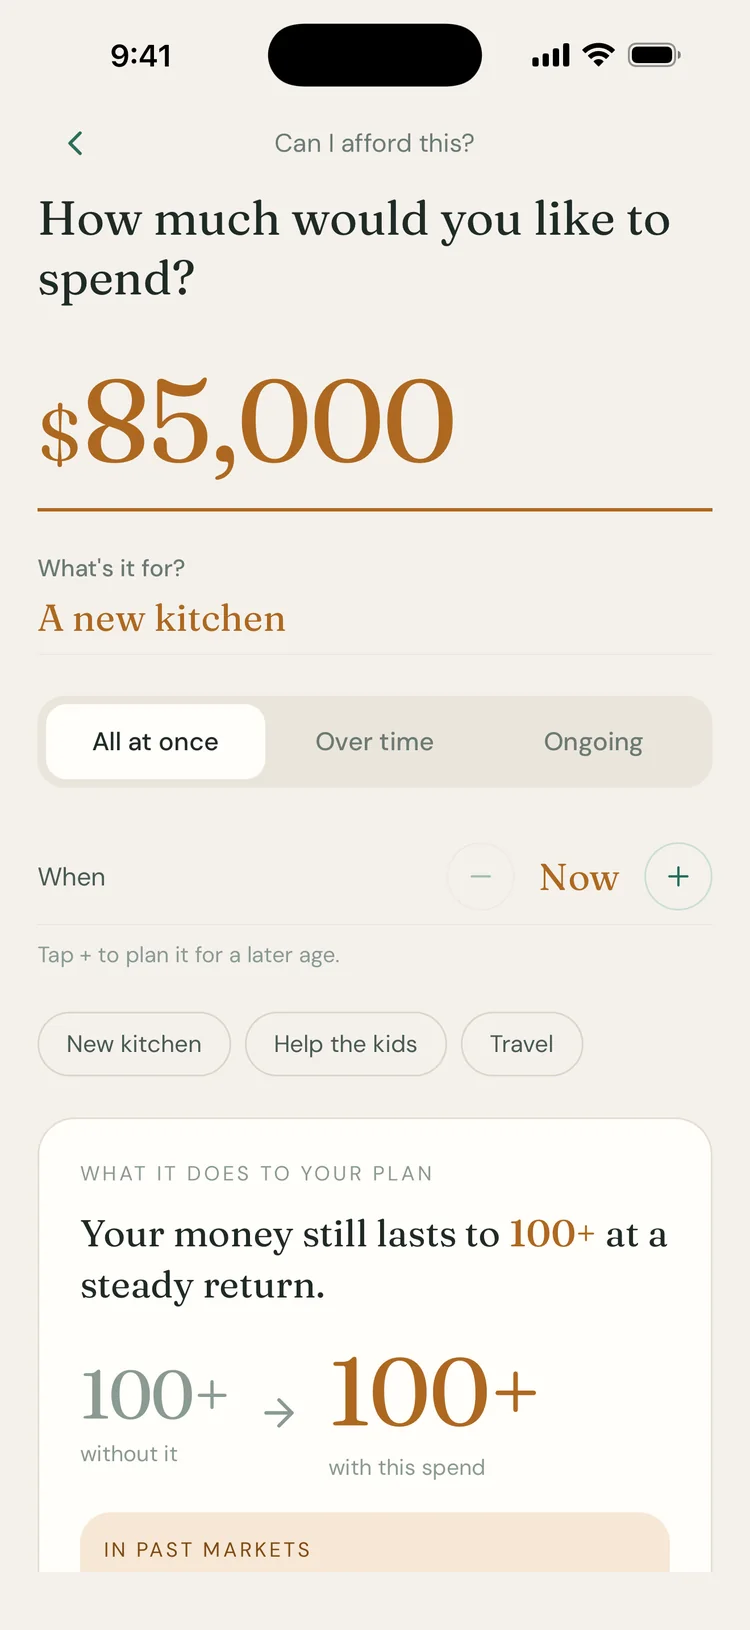
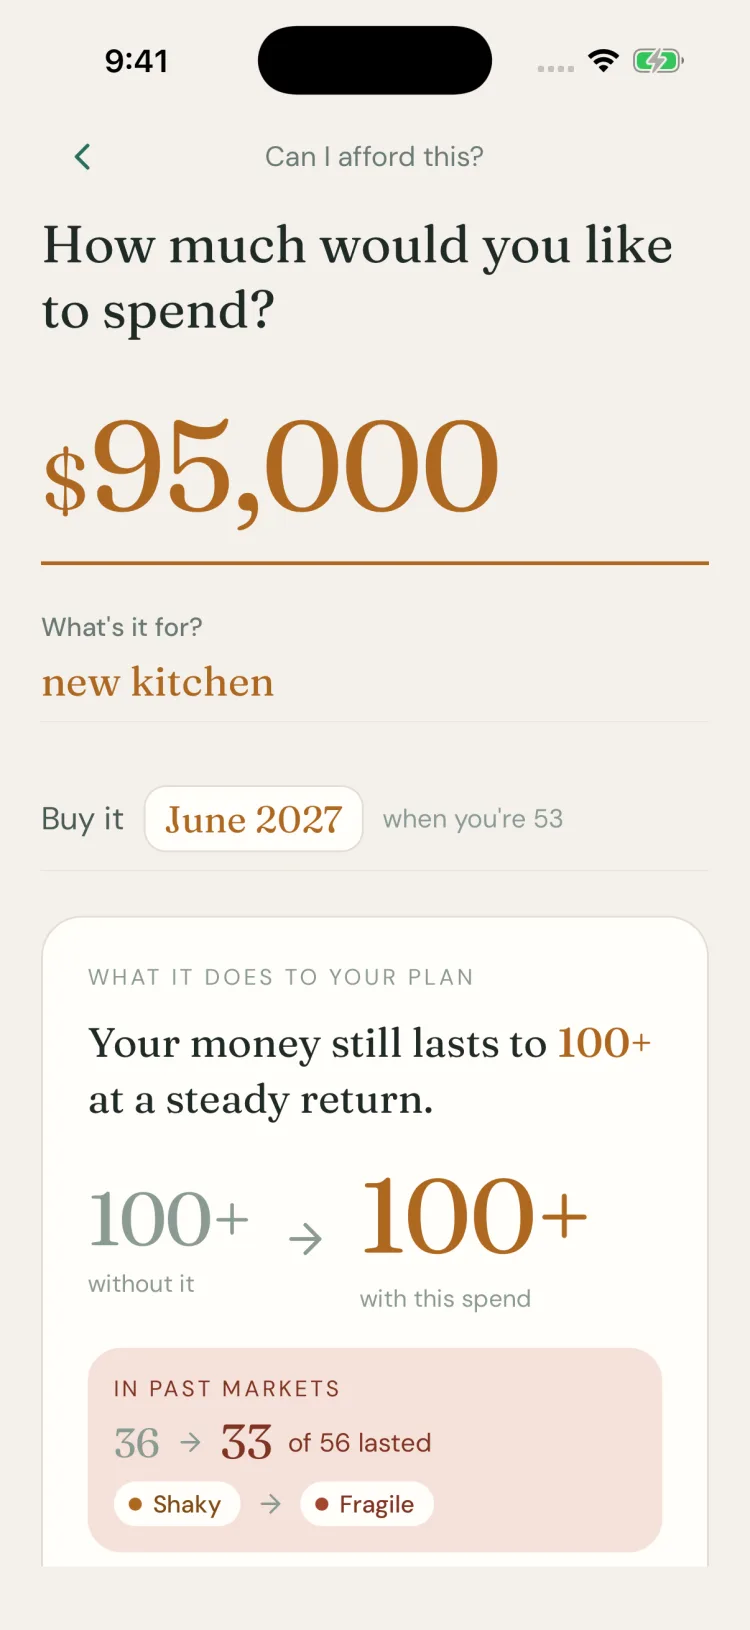
New screenshots: past markets, Can I afford this?, the paycheck
Replaces the three in-app screenshots on the home page with new
simulator captures: past markets year by year (the chart, the grid of
starting years and the hardest years), Can I afford this? with a
dated purchase, and the paycheck with its cash reserve. The image
descriptions now match what each one shows, and the image URLs carry
?v=2 so cached copies are replaced.

diff --git a/index.html b/index.html
@@ -131,8 +131,8 @@
       </div>
 
       <figure class="phone-wrap" style="margin-bottom:0;">
-        <div class="phone shot" role="img" aria-label="The past-markets replay for a sample couple: their money lasted until Tom turns 95 in 53 of 62 stretches of market history, 85 percent — sturdy.">
-          <img class="shot-img" src="images/screen-markets.webp" alt="" width="750" height="1630" loading="lazy" />
+        <div class="phone shot" role="img" aria-label="The past-markets replay for a sample plan: a chart of savings through every starting year since 1928, from 52 today to age 95, and a grid of starting years from 1928 to 1983 showing which lasted and which ran out. The hardest years, worst first: 1969, 1966, 1968, 1973 and 1965. Starting in 1929, the money ran out at 75.">
+          <img class="shot-img" src="images/screen-markets.webp?v=2" alt="" width="750" height="1630" loading="lazy" />
         </div>
         <figcaption class="phone-caption">The past-markets replay, for a sample plan</figcaption>
       </figure>
@@ -148,16 +148,16 @@
     <div class="screens">
       <!-- Can I afford this? -->
       <figure class="phone-wrap">
-        <div class="phone shot" role="img" aria-label="Can I afford this? for a sample couple: spending $85,000 on a new kitchen, their money still lasts to 100+ at a steady return.">
-          <img class="shot-img" src="images/screen-afford.webp" alt="" width="750" height="1630" loading="lazy" />
+        <div class="phone shot" role="img" aria-label="Can I afford this? for a sample plan: $95,000 for a new kitchen in June 2027. The money still lasts to 100+ at a steady return, but in past markets it lasted in 33 of 56 starting years instead of 36 — from shaky to fragile.">
+          <img class="shot-img" src="images/screen-afford.webp?v=2" alt="" width="750" height="1630" loading="lazy" />
         </div>
         <figcaption class="phone-caption">Can I afford this?</figcaption>
       </figure>
 
       <!-- Paycheck -->
       <figure class="phone-wrap">
-        <div class="phone shot" role="img" aria-label="Your retirement paycheck for a sample couple: $8,500 a month to spend, $6,077 from Linda's 401(k) and $3,623 from Tom's IRA, with 8% federal and 4% state tax withheld; the brokerage and Roth are left to grow.">
-          <img class="shot-img" src="images/screen-paycheck.webp" alt="" width="750" height="1630" loading="lazy" />
+        <div class="phone shot" role="img" aria-label="Your retirement paycheck for a sample plan: $8,000 a month to spend at 65, in today's dollars. A cash reserve with a $96,000 target holds $120,000, so the $24,000 above it is spent first. Each month: $1,580 from a traditional IRA with 1% federal and 3% state tax withheld, $5,752 from savings or cash, and $364 from a brokerage account.">
+          <img class="shot-img" src="images/screen-paycheck.webp?v=2" alt="" width="750" height="1630" loading="lazy" />
         </div>
         <figcaption class="phone-caption">Your retirement paycheck, with Plus</figcaption>
       </figure>
